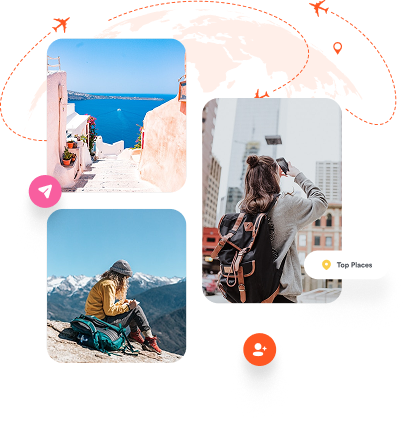
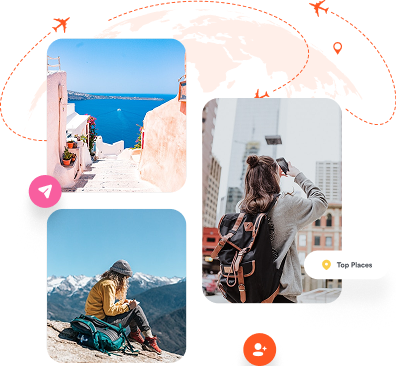
[TV_A1_04]: complete travelpoint section

diff --git a/index.html b/index.html
@@ -117,7 +117,7 @@
                             <picture>
                                 <!-- Desktop/Tablet -->
                                 <source
-                                    media="(min-width: 430px)"
+                                    media="(min-width: 431px)"
                                     srcset="/assets/images/hero-large.png"
                                 />
                                 <!-- Mobile -->
@@ -186,6 +186,77 @@
                         >
                             <img src="/assets/images/orbitz.png" alt="Orbitz" />
                         </a>
+                    </div>
+                </div>
+            </section>
+            <section class="travelpoint" id="discover">
+                <div class="travelpoint__wrapper">
+                    <img
+                        class="travelpoint__star"
+                        src="/assets/images/star.png"
+                    />
+                    <div class="travelpoint__image">
+                        <picture>
+                            <!-- Desktop -->
+                            <source
+                                media="(min-width: 1025px)"
+                                srcset="/assets/images/featured-image-large.png"
+                            />
+                            <!-- Tablet -->
+                            <source
+                                media="(min-width: 431px)"
+                                srcset="
+                                    /assets/images/featured-image-medium.png
+                                "
+                            />
+                            <!-- Mobile -->
+                            <img
+                                class="travelpoint__image"
+                                srcset="/assets/images/featured-image-small.png"
+                                alt="A hapy girl with backpack sitting on suitcase and holding passport."
+                            />
+                        </picture>
+                    </div>
+                    <div class="travelpoint__content">
+                        <div class="travelpoint__top">
+                            <h3 class="travelpoint__title uppercase-text">
+                                Travel Point
+                            </h3>
+                            <h2 class="travelpoint__sub-title">
+                                We helping you find your dream location
+                            </h2>
+                            <p class="travelpoint__description">
+                                Contrary to popular belief, Lorem Ipsum is not
+                                simply random text. It has roots in a piece of
+                                classical Latin literature from 45 BC.
+                            </p>
+                        </div>
+                        <div class="travelpoint__statistics">
+                            <div class="card card--outline travelpoint__card">
+                                <h4>500+</h4>
+                                <p class="travelpoint__card-title--dark">
+                                    Holiday Package
+                                </p>
+                            </div>
+                            <div class="card card--outline travelpoint__card">
+                                <h4>100</h4>
+                                <p class="travelpoint__card-title--dark">
+                                    Luxury Hotel
+                                </p>
+                            </div>
+                            <div class="card card--outline travelpoint__card">
+                                <h4>7</h4>
+                                <p class="travelpoint__card-title--dark">
+                                    Premium Airlines
+                                </p>
+                            </div>
+                            <div class="card card--outline travelpoint__card">
+                                <h4>2k+</h4>
+                                <p class="travelpoint__card-title--dark">
+                                    Happy Customer
+                                </p>
+                            </div>
+                        </div>
                     </div>
                 </div>
             </section>

diff --git a/src/styles/sass/layouts/_travelpoint.scss b/src/styles/sass/layouts/_travelpoint.scss
@@ -1,0 +1,121 @@
+@use '../abstracts/variables' as variables;
+@use '../abstracts/mixins' as mixins;
+@use '../abstracts/functions' as functions;
+
+.travelpoint {
+    width: 100%;
+    height: auto;
+    @include mixins.responsive-screen(md) {
+        padding-right: functions.rem(118.42px);
+    }
+
+    &__wrapper {
+        position: relative;
+        width: 100%;
+        height: auto;
+        padding-block: variables.$space-xl;
+        @include mixins.flex(
+            column,
+            space-between,
+            center,
+            variables.$space-lg
+        );
+
+        @include mixins.responsive-screen(sm) {
+            gap: variables.$space-xl;
+        }
+        @include mixins.responsive-screen(md) {
+            flex-direction: row;
+            gap: 0px;
+        }
+    }
+
+    &__star {
+        display: none;
+        @include mixins.responsive-screen(md) {
+            display: inline-flex;
+            position: absolute;
+            bottom: functions.rem(100px);
+            right: functions.rem(-114px);
+        }
+    }
+
+    &__content {
+        padding-inline: functions.rem(40px);
+        @include mixins.flex(
+            column,
+            space-between,
+            center,
+            variables.$space-lg
+        );
+
+        @include mixins.responsive-screen(sm) {
+            gap: variables.$space-xl;
+            padding-inline: functions.rem(65px);
+            padding-top: functions.rem(5px);
+        }
+        @include mixins.responsive-screen(md) {
+            padding-inline: 0;
+            padding-top: 0;
+        }
+    }
+
+    &__statistics {
+        width: 100%;
+        @include mixins.flex(
+            column,
+            space-between,
+            center,
+            variables.$space-xs
+        );
+        @include mixins.responsive-screen(sm) {
+            flex-direction: row;
+            flex-wrap: wrap;
+        }
+    }
+
+    &__title {
+        margin-bottom: functions.rem(16px);
+        letter-spacing: 20%;
+        @include mixins.responsive-screen(md) {
+            text-align: left;
+        }
+    }
+    &__sub-title {
+        margin-bottom: functions.rem(32px);
+        text-align: center;
+        @include mixins.responsive-screen(md) {
+            text-align: left;
+        }
+    }
+
+    &__description {
+        font-family: variables.$font-family-secondary;
+        @include mixins.responsive-screen(md) {
+            text-align: left;
+        }
+    }
+
+    &__card {
+        width: 100%;
+
+        @include mixins.responsive-screen(sm) {
+            width: calc(50% - 32px);
+        }
+    }
+
+    &__card-title {
+        &--dark {
+            font-family: variables.$font-family-secondary;
+            color: variables.$color-grey-dark;
+            font-size: functions.rem(18px);
+        }
+    }
+
+    &__image {
+        @include mixins.responsive-screen(md) {
+            display: flex;
+            flex-shrink: 0;
+        }
+    }
+}

diff --git a/src/styles/sass/components/_card.scss b/src/styles/sass/components/_card.scss
@@ -3,14 +3,19 @@
 @use '../abstracts/functions' as functions;
 
 .card {
-    @include mixins.flex;
+    width: 100%;
+    @include mixins.flex(column, center, center, variables.$space-xs);
 
     &--outline {
         padding-block: variables.$space-lg;
         border: 1px solid variables.$color-grey-extra-light;
         border-radius: variables.$radius-lg;
         gap: variables.$space-xs;
-        flex-direction: column;
         background-color: transparent;
+    }
+    &--title {
+        font-family: variables.$font-family-secondary;
+        color: variables.$color-grey-dark;
+        font-size: functions.rem(18px);
     }
 }

diff --git a/src/styles/sass/layouts/_partners.scss b/src/styles/sass/layouts/_partners.scss
@@ -4,11 +4,11 @@
 
 .partners {
     width: 100%;
-    box-sizing: content-box;
     @include mixins.flex(row, center, center, 32px);
     flex-wrap: wrap;
+    padding-bottom: functions.rem(64px);
     @include mixins.responsive-screen(sm) {
-        margin-top: functions.rem(64px);
+        padding-block: functions.rem(64px);
     }
     @include mixins.responsive-screen(md) {
         justify-content: space-between;

diff --git a/src/styles/sass/layouts/_hero.scss b/src/styles/sass/layouts/_hero.scss
@@ -125,7 +125,9 @@
     }
 
     &__image {
+        display: flex;
         flex-shrink: 0;
+        padding-inline: functions.rem(0.86px);
         @include mixins.responsive-screen(sm) {
             padding: 0 variables.$space-md;
         }

diff --git a/src/styles/sass/base/_reset.scss b/src/styles/sass/base/_reset.scss
@@ -52,7 +52,7 @@ a:not([class]) {
 img,
 picture,
 svg {
-    max-width: 100%;
+    // max-width: 100%;
     display: block;
     height: auto;
 }

diff --git a/src/styles/sass/layouts/_index.scss b/src/styles/sass/layouts/_index.scss
@@ -2,3 +2,4 @@
 @forward './nav_drawer';
 @forward './hero';
 @forward './partners';
+@forward './travelpoint';

diff --git a/src/styles/sass/base/_utilities.scss b/src/styles/sass/base/_utilities.scss
@@ -19,3 +19,7 @@
 .hidden {
     display: none;
 }
+
+.uppercase-text {
+    text-transform: uppercase;
+}
